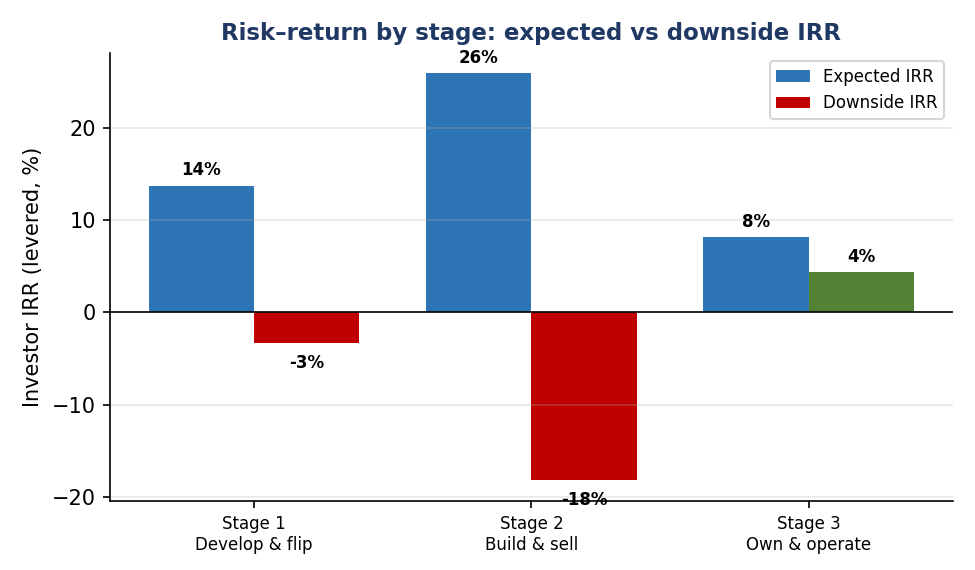
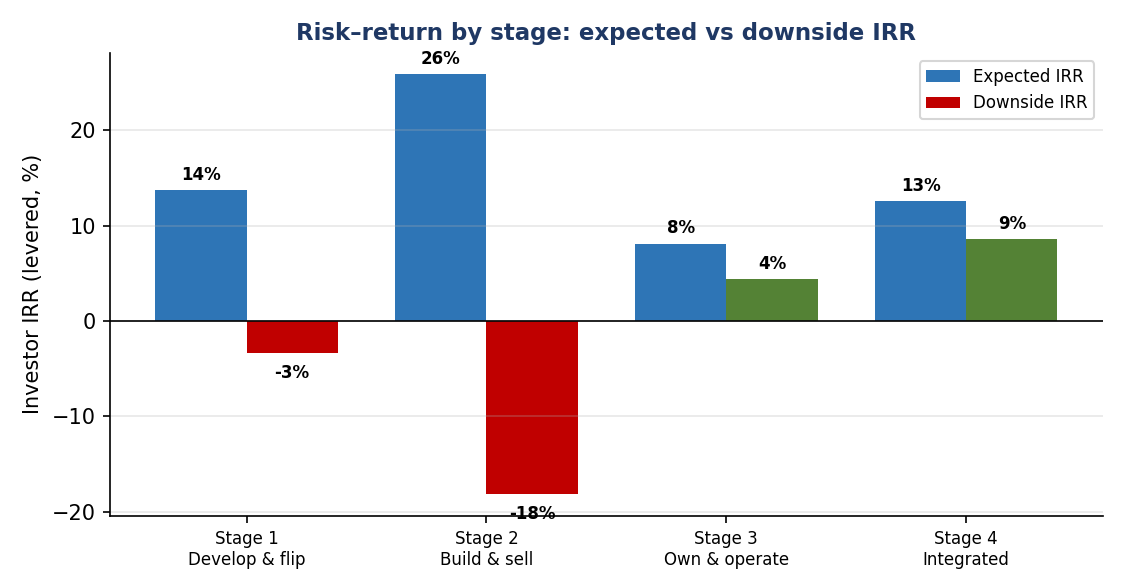
feat: add Stage 4 — integrated develop->build->operate (carry one project the whole way): model, figure, stage tables + scoping note in both reports

Changed region(s): [[0.0, 0.0298, 0.9846, 0.9842]]

diff --git a/src/stage_analysis.py b/src/stage_analysis.py
@@ -59,6 +59,7 @@ class Stages:
         self.con = s["construction"]
         self.op = s["operating"]
         self.scen = s["operating_scenarios"]
+        self.integrated = s.get("integrated", {"dev_to_rtb_years": 1.75})
         self.mw = float(self.ref["mw"])
         self.state = self.ref["state"]
         # engine inputs (RTB price by state, the fund returns for Stage 1)
@@ -157,6 +158,60 @@ def stage3(st: Stages) -> dict:
 
 
 # ---------------------------------------------------------------------------
+# Stage 4 — integrated: develop -> build -> operate the SAME asset
+# ---------------------------------------------------------------------------
+def _integrated_basis(st: Stages) -> tuple[float, float, float]:
+    """Reach-operation probability, grossed development cost, and net equity sunk.
+
+    Development survival for an integrated owner = planning x grid connection
+    (the 'reach sale' gate does NOT apply — the asset is kept, not sold), times
+    construction completion. Development cost is grossed for the funnel of failed
+    attempts; the operating asset is financed at the operating gearing.
+    """
+    p_dev = st.inp.p_planning * st.inp.p_connection           # no sale gate
+    reach_op = max(1e-6, p_dev * float(st.con["completion_prob"]))
+    abandon = st.inp.abandonment_fraction
+    dev_cost = st.inp.dev_cost_per_project
+    dev_total = dev_cost * (1.0 + abandon * (1.0 / reach_op - 1.0))   # funnel-grossed
+    op_debt = float(st.op["gearing"]) * operating_ev(st, 1.0)
+    equity0 = dev_total + st.build_cost - op_debt              # equity sunk to develop + build
+    return reach_op, dev_total, equity0
+
+
+def stage4_scenario(st: Stages, mult: float) -> dict:
+    """Levered equity IRR for develop->build->operate under a merchant scenario."""
+    reach_op, dev_total, equity0 = _integrated_basis(st)
+    op = st.op
+    op_debt = float(op["gearing"]) * operating_ev(st, 1.0)
+    fcf, terminal = _project_fcf(st, mult)
+    life = len(fcf)
+    tenor, rate = int(op["debt_tenor_years"]), float(op["debt_rate"])
+    principal, bal, eq_cf = op_debt / tenor, op_debt, []
+    for t in range(1, life + 1):
+        interest = bal * rate
+        prin = principal if t <= tenor else 0.0
+        bal = max(0.0, bal - prin)
+        eq_cf.append(fcf[t - 1] - interest - prin)
+    eq_cf[-1] += terminal - bal
+    lead = int(round(float(st.integrated["dev_to_rtb_years"]) + float(st.con["build_years"])))
+    cf = [-equity0] + [0.0] * (lead - 1) + eq_cf               # equity sunk up front; cash flows after the build lead
+    moic = sum(eq_cf) / equity0 if equity0 > 0 else float("nan")
+    return {"mult": mult, "irr": irr(cf), "moic": moic, "equity0": equity0, "lead": lead, "life": life}
+
+
+def stage4(st: Stages) -> dict:
+    """Probability-weighted integrated (develop->build->operate) return."""
+    sc, w = st.scen, st.scen["weights"]
+    res = {n: stage4_scenario(st, float(sc[n])) for n in ("low", "base", "high")}
+    exp_irr = sum(res[n]["irr"] * float(w[n]) for n in res)
+    exp_moic = sum(res[n]["moic"] * float(w[n]) for n in res)
+    reach_op, _, _ = _integrated_basis(st)
+    return {"by_scenario": res, "expected_irr": exp_irr, "expected_moic": exp_moic,
+            "downside_irr": res["low"]["irr"], "equity0": res["base"]["equity0"],
+            "reach_op": reach_op, "hold_years": res["base"]["lead"] + res["base"]["life"]}
+
+
+# ---------------------------------------------------------------------------
 # Stage 2 — build & sell
 # ---------------------------------------------------------------------------
 def stage2(st: Stages) -> dict:
@@ -203,7 +258,7 @@ def stage1(st: Stages) -> dict:
 # ---------------------------------------------------------------------------
 def compare(st: Stages | None = None) -> dict:
     st = st or Stages()
-    s1, s2, s3 = stage1(st), stage2(st), stage3(st)
+    s1, s2, s3, s4 = stage1(st), stage2(st), stage3(st), stage4(st)
     rows = [
         {"stage": "Stage 1 — Develop & flip (RTB)",
          "capital": "Low (~$0.5m dev/project; fund ~$25m)", "hold": f"~{s1['hold_years']:.0f} yrs",
@@ -222,8 +277,14 @@ def compare(st: Stages | None = None) -> dict:
          "expected_irr": s3["expected_irr"], "expected_moic": s3["expected_moic"],
          "downside_irr": s3["downside_irr"],
          "key_risk": "Merchant price risk (steady if contracted)"},
+        {"stage": "Stage 4 — Integrated (develop→build→operate)",
+         "capital": f"Highest, longest (~${s4['equity0']:.1f}m equity; only ~{s4['reach_op']:.0%} of starts reach operation)",
+         "hold": f"~{s4['hold_years']:.0f} yrs",
+         "expected_irr": s4["expected_irr"], "expected_moic": s4["expected_moic"],
+         "downside_irr": s4["downside_irr"],
+         "key_risk": "ALL risks stacked: development + construction + merchant (but NO buyer/exit risk)"},
     ]
-    return {"stages": st, "s1": s1, "s2": s2, "s3": s3, "rows": rows}
+    return {"stages": st, "s1": s1, "s2": s2, "s3": s3, "s4": s4, "rows": rows}
 
 
 def _pct(x):
@@ -286,6 +347,14 @@ def write_markdown(path=STAGE_MD) -> None:
              "**most fragile**: it depends entirely on the built asset being worth more than it costs to build (a thin, "
              "merchant-dependent margin), its downside is a heavy loss, and it needs construction expertise. Fine only "
              "inside a managed vehicle.")
+    L.append("- **Stage 4 (integrated: develop → build → operate) — for a patient owner-operator, not a passive investor.** "
+             "Carrying one project the whole way captures the entire value chain (development + construction margin + "
+             "operating yield) and **removes the buyer/exit risk** — you keep the asset, so the 'reach-sale' gate disappears "
+             "and development survival is just planning × connection. The trade-offs: the **longest lock-up (~18 years)** and "
+             "bearing development + construction + merchant risk together. Only ~50% of started developments reach operation "
+             "(development is cheap, so the failures cost little); the downside shown is the low-merchant case *given the "
+             "project reaches operation*. Because you build the asset at cost rather than buying it at market, the operating "
+             "returns are strong and the downside stays positive — if you have the patience and the operating capability.")
     L.append("- **Watch the alignment trap.** The manager keeps \"the best 5–10 projects to operate\" (Stage 3) and flips "
              "the rest — so the flip fund may be left the weaker projects. If you like the operating economics, ask to "
              "**co-invest in the assets they keep.**")

diff --git a/src/make_report.py b/src/make_report.py
@@ -151,14 +151,20 @@ def fig_tornado(inp):
 
 
 def fig_stage_comparison(c):
-    """Expected vs downside investor IRR for the three value-chain stages."""
+    """Expected vs downside investor IRR for the value-chain stages."""
     rows = c["rows"]
-    labels = ["Stage 1\nDevelop & flip", "Stage 2\nBuild & sell", "Stage 3\nOwn & operate"]
+
+    def _short(stage):                       # "Stage 1 — Develop & flip (RTB)" -> "Stage 1\nDevelop & flip"
+        num, _, rest = stage.partition("—")
+        name = rest.split("(")[0].strip()
+        return f"{num.strip()}\n{name}"
+
+    labels = [_short(r["stage"]) for r in rows]
     exp = [r["expected_irr"] * 100 for r in rows]
     down = [(0 if r["downside_irr"] != r["downside_irr"] else r["downside_irr"]) * 100 for r in rows]
     x = np.arange(len(labels))
     w = 0.38
-    fig, ax = plt.subplots(figsize=(6.5, 3.8))
+    fig, ax = plt.subplots(figsize=(7.5, 3.9))
     b1 = ax.bar(x - w / 2, exp, w, color=ACCENT, label="Expected IRR")
     b2 = ax.bar(x + w / 2, down, w, color=[RED if d < 0 else GREEN for d in down], label="Downside IRR")
     ax.axhline(0, color="black", lw=0.8)

diff --git a/INDUSTRY_REPORT.md b/INDUSTRY_REPORT.md
@@ -103,26 +103,28 @@ In other words, only about **45%** of projects started are likely to make it the
 
 *Basis — Data source: the model's inputs in [`config/assumptions.yaml`](config/assumptions.yaml) plus the live risk-free rate from the Reserve Bank of Australia (RBA). Method: risk-adjusted net present value (rNPV) per project; a fund "funnel" (projects started = target ÷ success rate); fees and carried interest; then probability-weighting the scenarios with the First-Chicago method (CFA scenario analysis + private-equity/venture-capital practice). Calculation: each scenario's after-fee internal rate of return (IRR), weighted 30% / 50% / 20%, gives ≈ 13.7%; the conservative case returns a multiple on invested capital (MOIC) of 0.93× — below 1.0× — i.e. a capital loss.*
 
-## Three ways to invest — and which stage to choose
+## Ways to invest along the value chain — and which stage to choose
 
-The same projects can be entered at three points on the value chain, and each is a genuinely different investment on a risk ladder: **develop (highest risk) → build (medium) → operate (lowest, if contracted).** Comparing them as risk-adjusted, levered equity returns on the same ~5 MW asset:
+The same projects can be entered at several points on the value chain. The first three are *standalone* entry points (you buy in at that stage's market price); the fourth is the **integrated** path, where you carry one project through all three. Each is a genuinely different investment on a risk ladder — **develop (highest risk) → build → operate (lowest, if contracted)** — compared here as risk-adjusted, levered equity returns on the same ~5 MW asset:
 
 | Stage | Hold | Expected return | Downside | In plain terms |
 |---|---|---|---|---|
 | 1 — Develop & flip (sell ready-to-build) | ~3 yrs | ~14% | **can lose capital (−3%)** | capital-light, short, but binary |
 | 2 — Build & sell | ~1.5 yrs | ~26% | **heavy loss (−18%)** | highest return, but most fragile |
 | 3 — Own & operate (contracted) | ~15 yrs | ~8% | **still positive (+4%)** | steady, long, capital-preserving |
+| 4 — Integrated (develop → build → operate) | ~18 yrs | ~13% | **positive (+9%) if it reaches operation** | the whole value chain, no exit risk; longest, all risks stacked |
 
 ![Risk-return by stage](outputs/figures/stage_comparison.png)
 
 **Which stage suits a patient, capital-preservation-minded investor:**
 
-- **Stage 3 (own & operate, *contracted*) is the natural core.** It is the only stage that stays positive even in its downside — steady, long-dated, capital-preserving yield. It also plays to a credit-risk strength: judging whether the tolling/offtake buyer will actually pay is the same as judging whether a borrower can service a loan. Avoid uncontracted, merchant-only assets — that is just betting on electricity prices.
+- **Stage 3 (own & operate, *contracted*) is the natural core.** It is the only *standalone* stage that stays positive in its downside — steady, long-dated, capital-preserving yield. It also plays to a credit-risk strength: judging whether the tolling/offtake buyer will actually pay is the same as judging whether a borrower can service a loan. Avoid uncontracted, merchant-only assets — that is just betting on electricity prices.
 - **Stage 1 (develop & flip) is a smaller, higher-risk satellite** — only on the conditions below.
 - **Stage 2 (build & sell) is best skipped on its own.** It shows the highest *expected* return, but it is the most fragile: the profit depends entirely on the finished asset being worth more than it costs to build — a thin, price-dependent margin — and the downside is a heavy loss. It also needs construction expertise.
+- **Stage 4 (integrated: develop → build → operate) is a different business, not a passive investment.** It captures the entire value chain and **removes the buyer/exit risk** — because you keep the asset, the sale gate disappears, and even the low-merchant downside stays positive *if the project reaches operation*. The catch: it is the **longest lock-up (~18 years)**, it stacks development + construction + merchant risk, and only ~50% of started developments reach operation (development is cheap, so the failures cost little). It suits a patient owner-operator with development *and* operating capability — not an investor who needs liquidity.
 - **One alignment warning:** the manager keeps "the best 5–10 projects to operate" (Stage 3) and sells the rest, so the flip fund may be left the weaker projects. If the operating economics appeal, ask to **co-invest in the projects they keep.**
 
-> **Why the ~45% / 65% success rate only affects Stage 1.** That success rate is the chance a project clears planning approval, grid connection and a sale — a **development** risk. A Stage 2 (build) or Stage 3 (operate) investor instead **buys a project that has already cleared development**, at its market price, so they do *not* bear the development-success rate: Stage 2's risk is construction completion (modelled at ~90%) and Stage 3's is merchant price. Each stage is priced at its own entry point, which keeps the three returns comparable like-for-like. The manager's 65% is therefore a Stage-1 number, and it drives only the Stage 1 result.
+> **Why the sale-gated 65% success rate is a Stage-1 number.** That rate is the chance a project clears planning approval, grid connection *and* a sale — so it includes the buyer/exit risk. A Stage 2 (build) or Stage 3 (operate) investor **buys a project that has already cleared development**, at its market price, so they bear construction completion (~90%) and merchant price respectively, not the development-success rate. The **integrated path (Stage 4) also runs the development gauntlet, but without the sale gate** — its development survival is planning × grid connection (≈56%), because it keeps the asset rather than selling it. Each stage is priced at its own entry point, which keeps the returns comparable like-for-like, and the manager's 65% drives only the Stage 1 result.
 
 *Basis — Data source: model inputs in [`config/assumptions.yaml`](config/assumptions.yaml) (development cost, construction cost, operating revenue, debt terms), with the risk-free rate from the Reserve Bank of Australia. Method: levered equity internal rate of return for each stage — Stage 1 is the fund funnel; Stage 2 is a build-and-sell model risk-adjusted by completion probability; Stage 3 is a levered operating discounted-cash-flow with low/base/high merchant-price scenarios. Full workings, including the operating model, are in [`financial_models/STAGE_COMPARISON.md`](financial_models/STAGE_COMPARISON.md). The figures are illustrative; the Stage 2 result is very sensitive to the build margin.*
 

diff --git a/README.md b/README.md
@@ -25,7 +25,7 @@
 
 *Basis — the full data-source-and-method table is in [`INDUSTRY_REPORT.md`](INDUSTRY_REPORT.md). In brief: the **45%** comes from public planning-approval and grid-connection data via a probability-of-default / survival method (0.80 × 0.70 × 0.80); the **IRRs** come from our model (risk-adjusted net present value + fund funnel + First-Chicago weighting); the manager's figures are stated claims to verify.*
 
-**Stage choice:** the fund offers exposure mainly to *Stage 1 (develop-and-flip)*. On a risk-adjusted basis, the *own-and-operate (contracted)* stage is a better fit for patient private capital — it is the only one of the three value-chain stages that stays positive in its downside (see [§5](#5-where-to-invest-across-the-value-chain)).
+**Stage choice:** the fund offers exposure mainly to *Stage 1 (develop-and-flip)*. On a risk-adjusted basis, the *own-and-operate (contracted)* stage is a better fit for patient private capital — among the standalone entry points it is the only one that stays positive in its downside (the fully-integrated develop-build-operate path also does, but locks capital up ~18 years; see [§5](#5-where-to-invest-across-the-value-chain)).
 
 **Single biggest risk:** *exit / buyer risk* (a flip with no buyer is a stranded asset), followed by *development / approval risk* and *success-rate optimism*.
 
@@ -109,24 +109,26 @@ Modelled bottom-up from public data (survival curve → fund funnel → fees and
 
 ## 5. Where to invest across the value chain
 
-The same projects can be entered at three points on the chain — the classic infrastructure risk ladder of **development → construction → operation.** Compared as risk-adjusted, levered equity returns on one ~5 MW asset:
+The same projects can be entered at several points on the chain — the standalone entry points along the infrastructure risk ladder (**development → construction → operation**), plus an **integrated** path that carries one project through all three. Compared as risk-adjusted, levered equity returns on one ~5 MW asset:
 
 | Stage | Hold | Expected IRR | Expected MOIC | Downside IRR | Main risk |
 |---|---|---|---|---|---|
 | 1 — Develop & flip (sell ready-to-build) | ~3 years | **13.7%** | 1.31× | **−3.3%** | approvals + a buyer (can lose capital) |
 | 2 — Build & sell | ~1.5 years | **25.9%** | 1.41× | **−18.2%** | construction + thin build margin |
 | 3 — Own & operate (contracted) | ~15 years | **8.1%** | 2.41× | **+4.4%** | merchant price (steady if contracted) |
+| 4 — Integrated (develop→build→operate) | ~18 years | **12.6%** | 4.57× | **+8.6%** | all risks stacked (development + construction + merchant), but no exit risk |
 
 ![Risk-return by stage](outputs/figures/stage_comparison.png)
 
 **Recommendation by stage (for patient private capital):**
 
-- **Stage 3 — own & operate (contracted): the natural core.** The only stage positive in its downside; steady, long-dated yield; plays to the credit-risk edge (assessing the offtake counterparty is *serviceability analysis*). Avoid merchant-only operating.
+- **Stage 3 — own & operate (contracted): the natural core.** The only *standalone* stage positive in its downside; steady, long-dated yield; plays to the credit-risk edge (assessing the offtake counterparty is *serviceability analysis*). Avoid merchant-only operating.
 - **Stage 1 — develop & flip: a smaller satellite,** only on the conditions in [§7](#7-conditions-to-commit--questions-for-the-manager).
 - **Stage 2 — build & sell: skip as a standalone** — the highest *expected* return but the most fragile (a thin, merchant-dependent build margin; a heavy downside) and it needs construction expertise.
+- **Stage 4 — integrated (develop → build → operate): a different business model.** Captures the whole value chain and removes exit risk; because you build at cost, operating returns are strong with a positive downside *if it reaches operation*. But it is the longest lock-up (~18 years), stacks all the risks, and only ~50% of starts reach operation. For a patient owner-operator, not a passive limited partner.
 - **Alignment trap:** the manager keeps the best projects to operate and sells the rest — ask to co-invest in the ones they keep.
 
-> **The success rate only affects Stage 1.** The ~45% (independent) / 65% (manager) figure is the chance a project clears planning, connection and a sale — a **development** risk. Stage 2 and Stage 3 investors buy a project that has *already* cleared development (at its market price), so they bear construction-completion (~90%) and merchant-price risk instead — not the development-success rate. Each stage is priced at its own entry point, so the comparison stays like-for-like and the manager's 65% drives only the Stage 1 number.
+> **The sale-gated 65% success rate is a Stage-1 number.** The ~45% (independent) / 65% (manager) figure is the chance a project clears planning, connection *and* a sale — so it includes exit risk. Stage 2 and Stage 3 investors buy a project that has *already* cleared development (at market price), so they bear construction-completion (~90%) and merchant-price risk instead. The integrated **Stage 4 also runs development, but without the sale gate** — its survival is planning × connection (≈56%), because it keeps the asset rather than selling it. Each stage is priced at its own entry point, so the comparison stays like-for-like and the manager's 65% drives only the Stage 1 number.
 
 *Basis — **Data source:** [`config/assumptions.yaml`](config/assumptions.yaml) (development cost, construction cost, operating revenue, debt terms) + the RBA risk-free rate. **Method:** levered equity IRR per stage — Stage 1 is the fund funnel; Stage 2 is a build-and-sell model risk-adjusted by completion probability; Stage 3 is a levered operating discounted-cash-flow (DCF) with low/base/high merchant-price scenarios. **Calculation:** full workings in [`financial_models/STAGE_COMPARISON.md`](financial_models/STAGE_COMPARISON.md). Figures are illustrative — the Stage 2 result is highly sensitive to the build margin.*
 

diff --git a/financial_models/STAGE_COMPARISON.md b/financial_models/STAGE_COMPARISON.md
@@ -11,6 +11,7 @@
 | Stage 1 — Develop & flip (RTB) | ~3 yrs | Low (~$0.5m dev/project; fund ~$25m) | **13.7%** | 1.31x | **-3.3%** | Approvals on time + a buyer pays (can lose capital) |
 | Stage 2 — Build & sell | ~1.5 yrs | High (~$2.8m equity / $7.0m project) | **25.9%** | 1.41x | **-18.2%** | Construction cost/delay + thin build margin (can lose capital) |
 | Stage 3 — Own & operate | ~15 yrs | Highest (~$3.8m equity), locked up longest | **8.1%** | 2.41x | **4.4%** | Merchant price risk (steady if contracted) |
+| Stage 4 — Integrated (develop→build→operate) | ~18 yrs | Highest, longest (~$2.0m equity; only ~50% of starts reach operation) | **12.6%** | 4.57x | **8.6%** | ALL risks stacked: development + construction + merchant (but NO buyer/exit risk) |
 
 ![Risk-return by stage](../outputs/figures/stage_comparison.png)
 
@@ -28,6 +29,7 @@
 - **Stage 3 (own & operate, *contracted*) — the natural core holding.** It is the only stage that **stays positive in its downside**, giving steady, long-dated, capital-preserving yield. It also plays to a credit-risk edge: judging whether the toll/offtake counterparty will pay is *serviceability analysis*. Avoid uncontracted / merchant-only operating assets.
 - **Stage 1 (develop & flip) — a smaller satellite only.** Higher expected return, capital-light and short, but it can lose capital and rests on optimistic manager assumptions. Suitable for the risk-tolerant slice, on strict conditions.
 - **Stage 2 (build & sell) — skip as a standalone.** It shows the highest *expected* return, but it is the **most fragile**: it depends entirely on the built asset being worth more than it costs to build (a thin, merchant-dependent margin), its downside is a heavy loss, and it needs construction expertise. Fine only inside a managed vehicle.
+- **Stage 4 (integrated: develop → build → operate) — for a patient owner-operator, not a passive investor.** Carrying one project the whole way captures the entire value chain (development + construction margin + operating yield) and **removes the buyer/exit risk** — you keep the asset, so the 'reach-sale' gate disappears and development survival is just planning × connection. The trade-offs: the **longest lock-up (~18 years)** and bearing development + construction + merchant risk together. Only ~50% of started developments reach operation (development is cheap, so the failures cost little); the downside shown is the low-merchant case *given the project reaches operation*. Because you build the asset at cost rather than buying it at market, the operating returns are strong and the downside stays positive — if you have the patience and the operating capability.
 - **Watch the alignment trap.** The manager keeps "the best 5–10 projects to operate" (Stage 3) and flips the rest — so the flip fund may be left the weaker projects. If you like the operating economics, ask to **co-invest in the assets they keep.**
 
 *Auto-generated by `src/stage_analysis.py` (run via `make report`). Returns are risk-adjusted levered equity IRRs; the operating model is a simplified levered DCF (FCF ≈ EBITDA, before tax / maintenance capex). All figures illustrative — verify revenue and capex before any decision.*